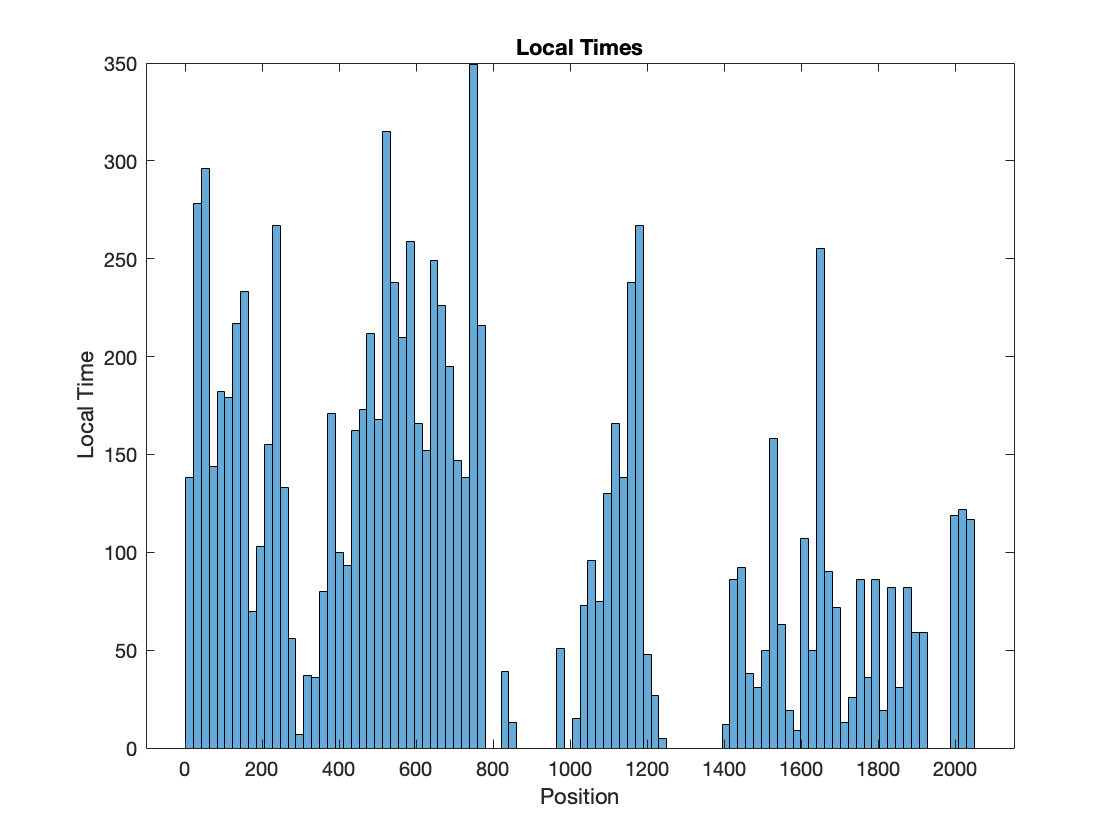
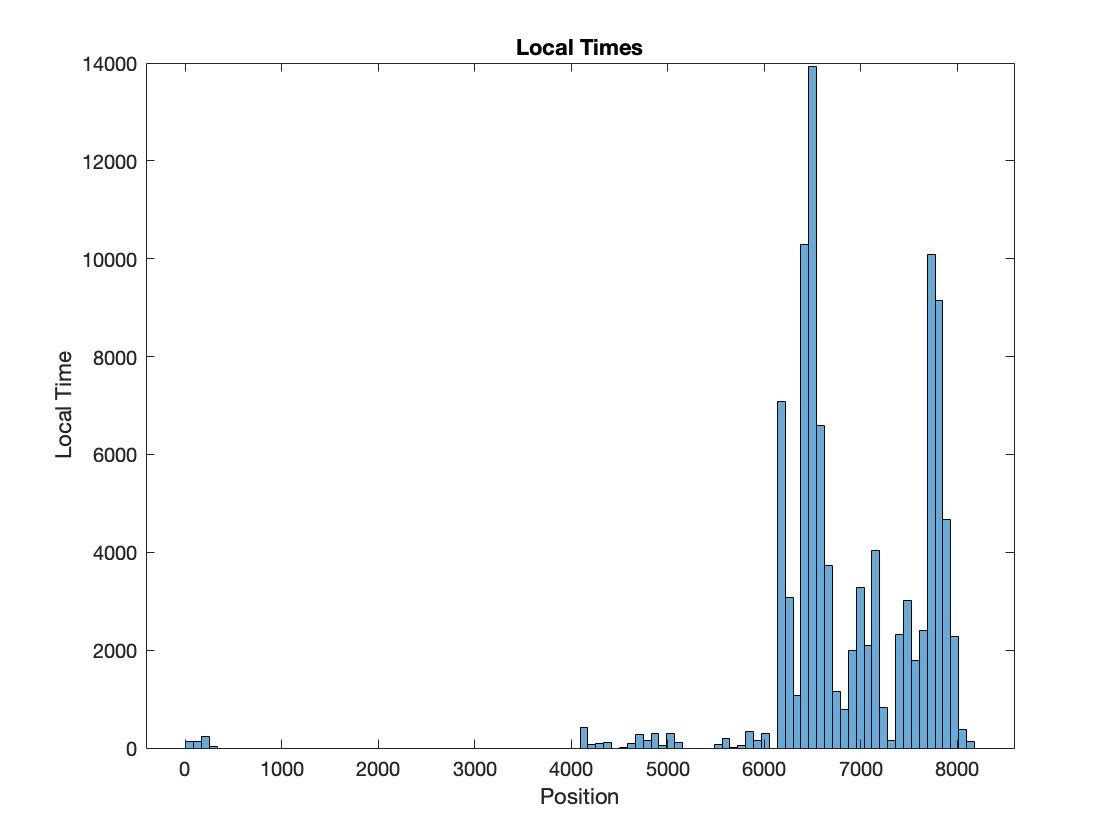
bugs, settings

diff --git a/RunWalk.m b/RunWalk.m
@@ -1,10 +1,11 @@
-clear all; close all; clc;
+clear all; close all; clc; rng(42);
+
 
 % Settings
-C = 0.8;              % Dimension parameter D = 2/C
-C_2 = 1.2;            % Give a new C after transversal (reinforcement parameter)
-N = 12;               % Run on 2^N Sites
-TotalSteps = 10000;   % Number of steps to take
+C = 0.8;               % Dimension parameter D = 2/C
+C_2 = 1.4;             % Give a new C after transversal (reinforcement parameter)
+N = 13;                % Run on 2^N Sites
+TotalSteps = 100000;   % Number of steps to take
 
 
 % Compute the layer coefficients according to dimension
@@ -32,22 +33,22 @@ for Step = 2:TotalSteps
     CDF = cumsum(Dist);
     U = rand();
     Walk(Step) = find(CDF >= U, 1, 'first');
-    
+
     % Find the smallest layer coupling Walk(Step-1) and Walk(Step)
     R = find(Layers(:, Walk(Step-1), Walk(Step)), 1, 'first');
-    
+
     % And update it if we have not traversed the layer
     if Layers(R, Walk(Step-1), Walk(Step)) == 1
-        % Find the indices of the block in layer R that contains 
+        % Find the indices of the block in layer R that contains
         % Walk(Step) and Walk(Step-1)
         Lower = Walk(Step) - mod(Walk(Step) - 1, 2^(R-1));
         Upper = Lower + 2^(R-1) - 1;
         % Increase the prefactor linearly
         % Layers(R, Lower:Upper, Lower:Upper) = (1 + A)*ones(2^(R-1), 2^(R-1));
         % Decrease the C parameter
-        Layers(R, Lower:Upper, Lower:Upper) = (2^((C_2 - C)*R))*ones(2^(R-1), 2^(R-1));
+        Layers(R, Lower:Upper, Lower:Upper) = (2^((C - C_2)*R))*ones(2^(R-1), 2^(R-1));
     end
-    
+
     % Display the time here and there
     if mod(Step, 1000) == 0
         fprintf('Step = %d\n', Step);

diff --git a/README.md b/README.md
@@ -2,7 +2,7 @@
 This script samples trajectories of a reinforced hierarchical random walk. The (unnormalized) initial transition matrix can be written as
 
 P = sum_r p_r L_r
- 
+
 where L_r is block diagonal with 2^r * 2^r blocks of 1s on the diagonal. To set an effective (spectral) dimension of D, one sets
 p_r = 2^(-(1+C)),  C = 2/D.
 
